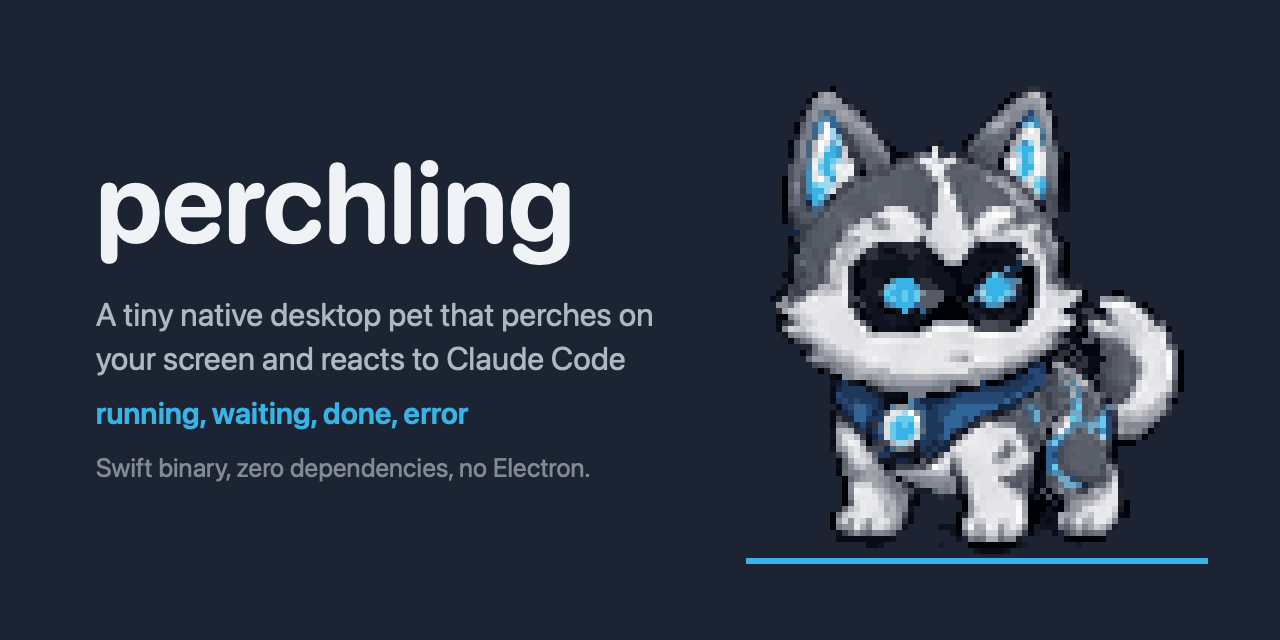
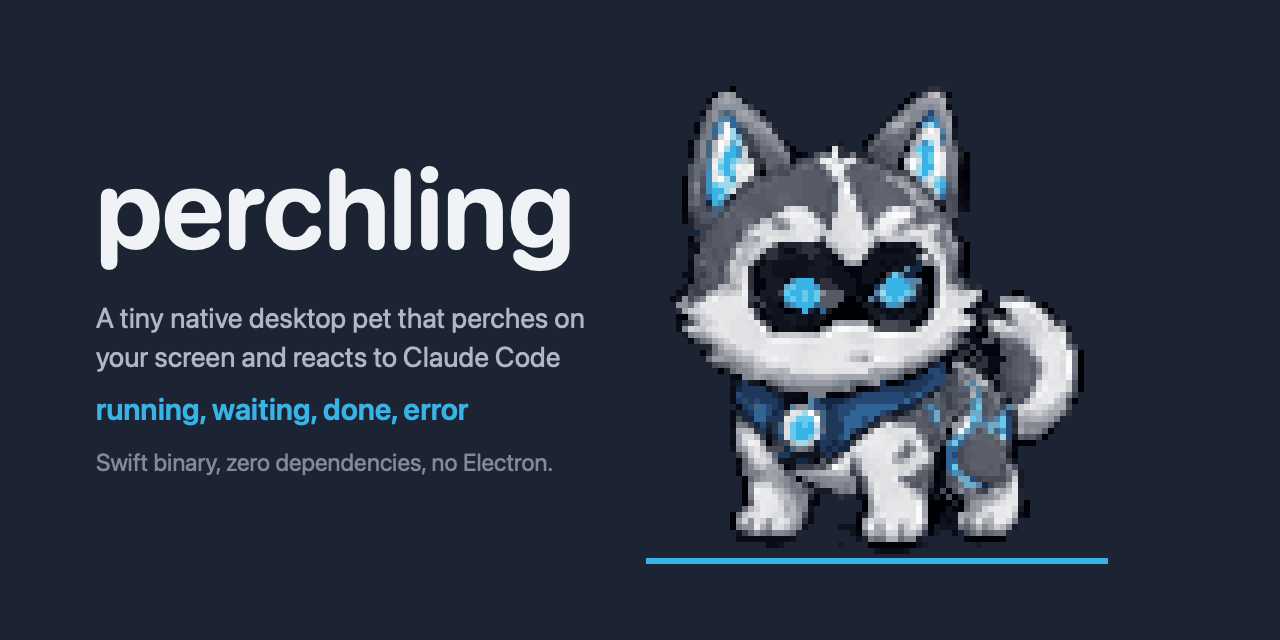
fix(social-card): keep the pet's head inside the centre square LINE crops to
LINE and iMessage thumbnail a 2:1 Open Graph card as its middle square, and
at a 96px pet margin that square cut between the goggles. A 196px margin
puts ears and goggles inside it; the text column gives up 100px and the
pitch and footnote step down two sizes to stay unorphaned.

The narrower column wrapped the title for any pet wider than the built-in,
which the stack guard reported as the description not fitting. The title
now steps its size down until one line fits, so the layout survives a
built-in whose ink is wider than the husky's.

diff --git a/tools/social-card.swift b/tools/social-card.swift
@@ -12,6 +12,13 @@
 let CARD_W = 1280, CARD_H = 640          // GitHub's recommended 2:1
 let PET_SCALE: CGFloat = 6
 let MARGIN = 96
+// The pet sits further in than the text does. LINE, iMessage and their kind
+// do not show a 2:1 card; they crop its centre square (x 320..960 here) into
+// a thumbnail, and at a 96px margin that square ends between the goggles.
+// 196 puts the whole head — ears included, which reached column 1057 on a
+// 96px margin — inside it, at the cost of 100px of text column. The report
+// line says which ink columns the square holds; check it if the art moves.
+let PET_MARGIN = 196
 // idle's timeline holds frame 0 for its first second (steps[0] is [0, 1000])
 // and the base bob rests at off 2 while tick % 64 < 56. 5 sits inside both,
 // so this is the pose the pet spends most of its idle time in.
@@ -170,7 +177,7 @@ ctx.fill(CGRect(x: 0, y: 0, width: CARD_W, height: CARD_H))
 
 // Pet: ink right-aligned to the margin and vertically centred. (petX, petY)
 // is the render's top-left corner on the card, top-down.
-let petX = CARD_W - MARGIN - inkR - 1
+let petX = CARD_W - PET_MARGIN - inkR - 1
 let petY = (CARD_H - inkH) / 2 - inkT
 ctx.saveGState()
 ctx.interpolationQuality = .none
@@ -225,10 +232,19 @@ func height(_ s: NSAttributedString, width: Int) -> Int {
                             options: [.usesLineFragmentOrigin, .usesFontLeading]).height))
 }
 
-let title = paragraph("perchling", font(112, .bold, rounded: true), TITLE)
-let pitchText = paragraph(pitch, font(32, .regular), BODY, lineSpacing: 6)
+// The title never wraps. At 112pt it is ~480px wide, and a pet whose ink is
+// wider than the built-in's narrows the column below that (otter's does) —
+// a title broken across two lines is the one failure the card cannot
+// survive. Step the size down until one line fits; size() measures unwrapped.
+var titleSize: CGFloat = 112
+var title = paragraph("perchling", font(titleSize, .bold, rounded: true), TITLE)
+while Int(ceil(title.size().width)) > textW, titleSize > 64 {
+    titleSize -= 4
+    title = paragraph("perchling", font(titleSize, .bold, rounded: true), TITLE)
+}
+let pitchText = paragraph(pitch, font(28, .regular), BODY, lineSpacing: 6)
 let moodsText = paragraph(moods, font(30, .semibold), ACCENT)
-let footText = paragraph(footnote, font(26, .regular), BODY.withAlphaComponent(0.7))
+let footText = paragraph(footnote, font(24, .regular), BODY.withAlphaComponent(0.7))
 
 let blocks: [(NSAttributedString, Int)] = [
     (title, 0), (pitchText, 28), (moodsText, 18), (footText, 22),
@@ -310,7 +326,8 @@ guard mismatched == 0 else { die("\(mismatched) pet pixels on the card differ fr
 
 var report = "wrote \(outURL.path) — \(CARD_W)x\(CARD_H), \(bytes / 1024)KB\n"
 report += "pet: \(b.name) @\(Int(PET_SCALE))x, ink \(inkW)x\(inkH) at (\(petX + inkL), \(petY + inkT)) top-left\n"
-report += "text: \(textW)px column, \(total)px stack\n"
+report += "text: \(textW)px column, \(total)px stack, title \(Int(titleSize))pt\n"
+report += "centre square (\(CARD_W / 4)..\(CARD_W * 3 / 4)) holds ink columns \(petX + inkL)..\(min(petX + inkR, CARD_W * 3 / 4)) of \(petX + inkL)..\(petX + inkR)\n"
 report += "palette: \(seen.count) inks, " + (perChannel == 0
     ? "matching the manifest exactly\n" : "within the 1-per-channel bound\n")
 report += "round-trip: every pet pixel decodes back where draw() put it\n"
